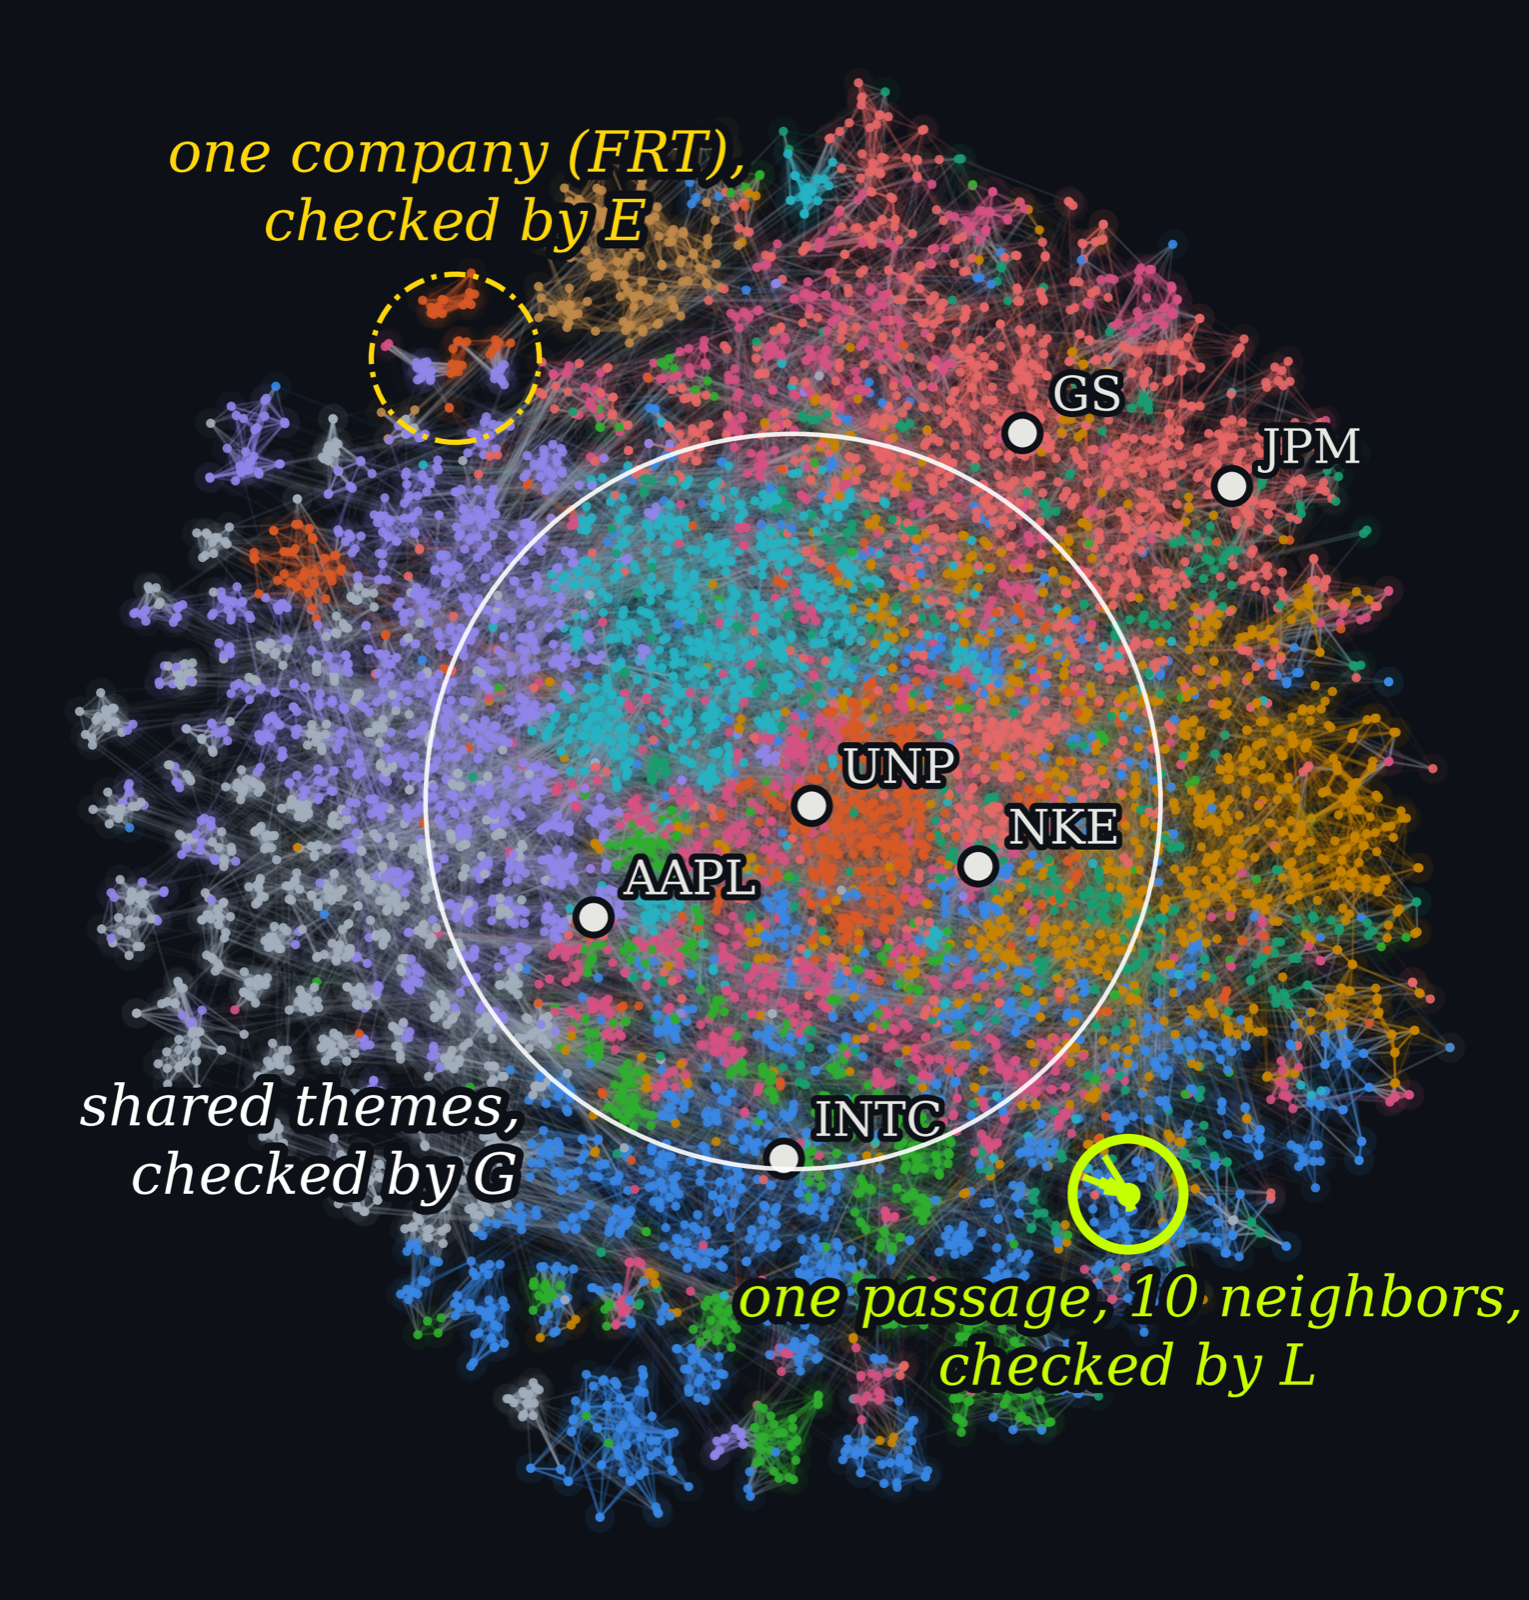
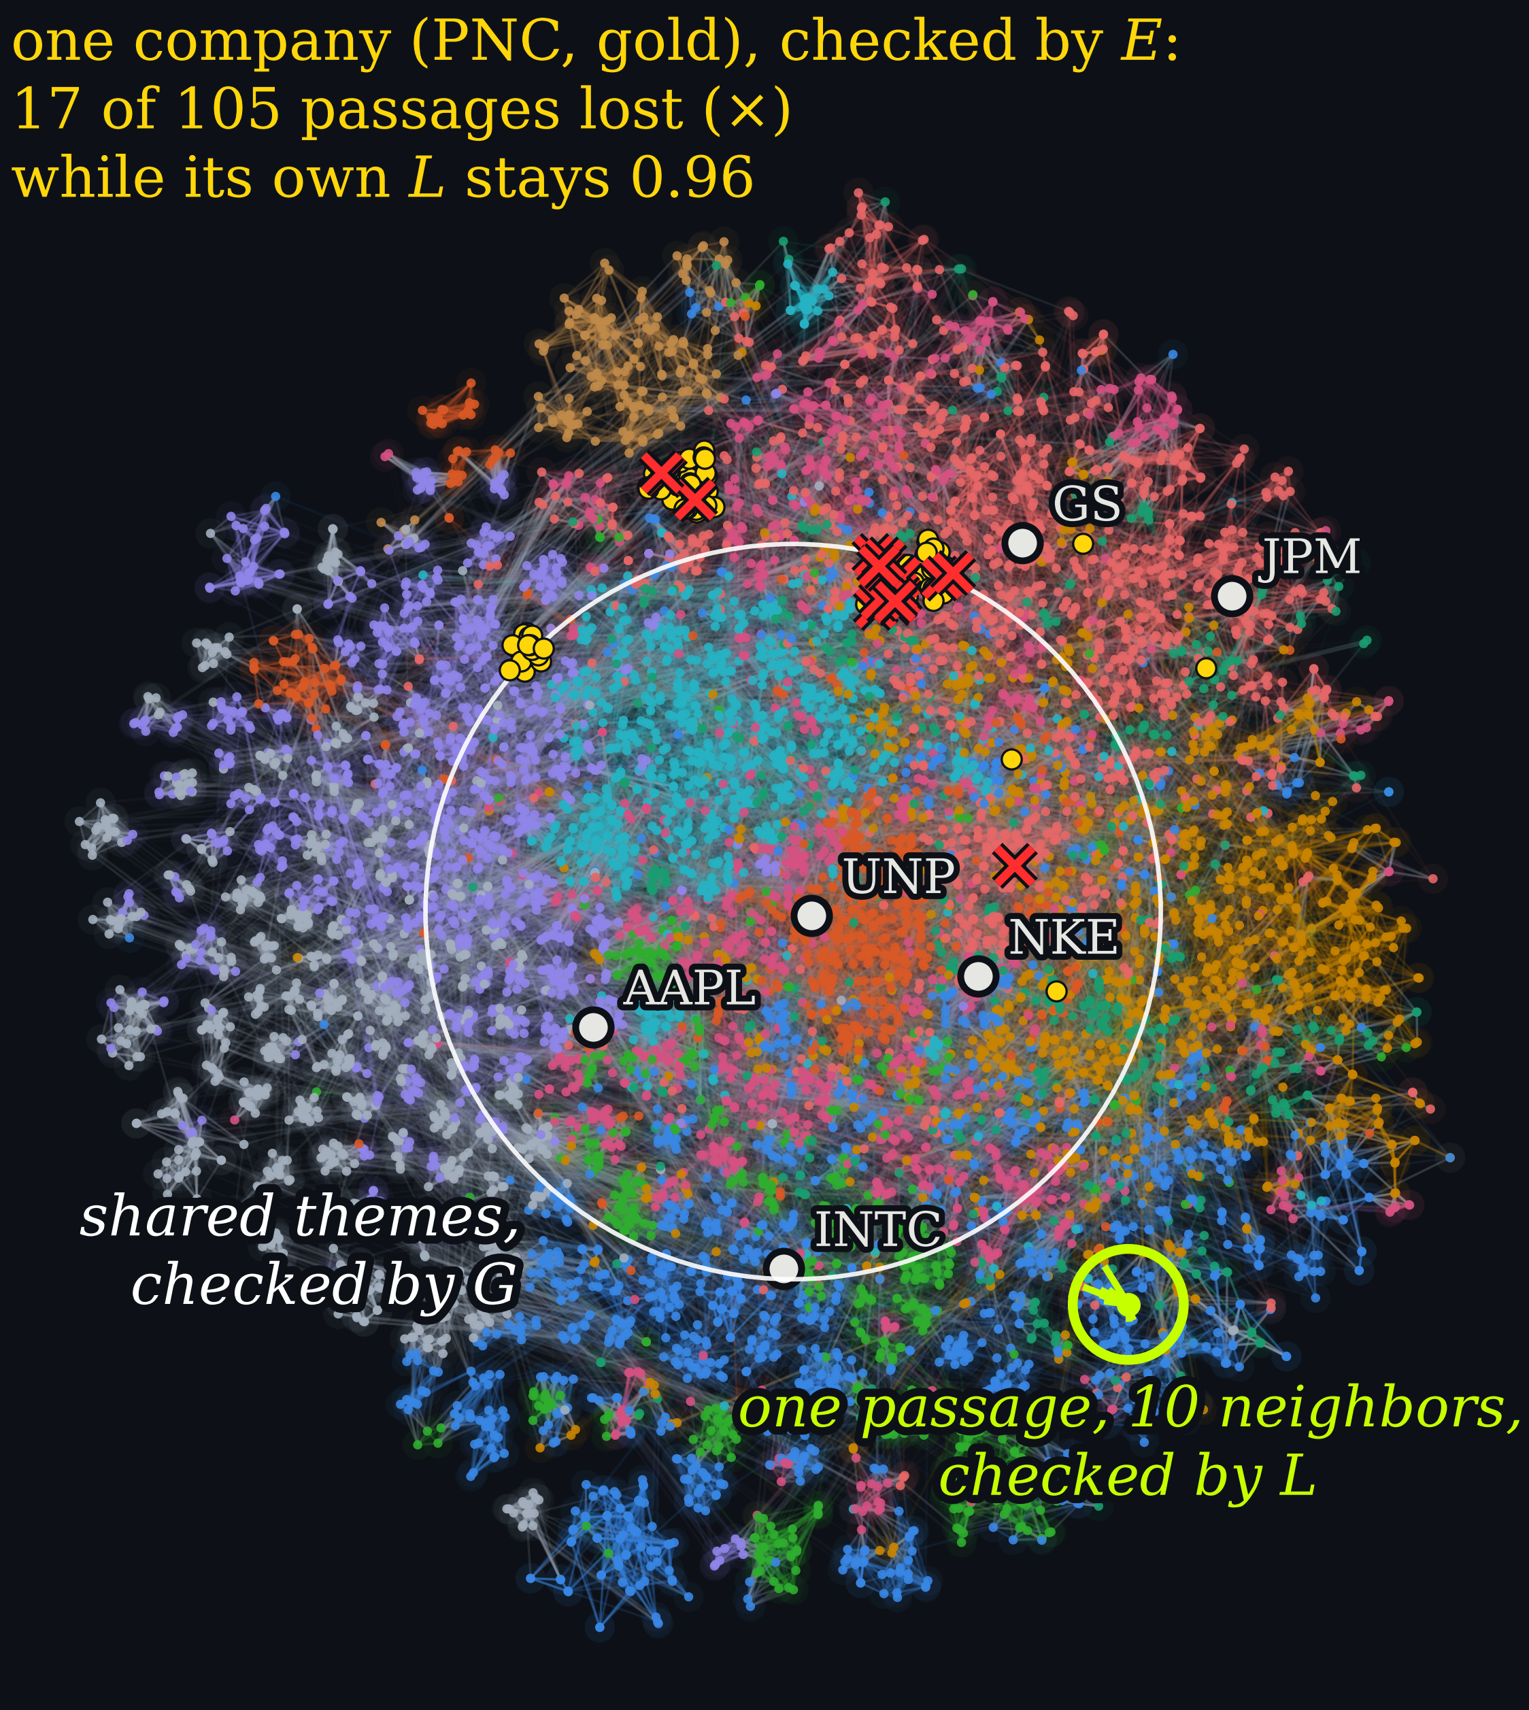
Add files via upload

diff --git a/README_2026-11-01_preFig6.md b/README_2026-11-01_preFig6.md
@@ -1,0 +1,75 @@
+# Preprints for the Amazon Research Award proposal *MemCert*
+
+**MemCert: Label-Free Certification of Compressed Memory for Enterprise Financial AI Agents**
+Henry Han, Data Science and AI Innovation Laboratory, Baylor University · [Henry_Han@baylor.edu](mailto:Henry_Han@baylor.edu)
+
+Three manuscripts under review, version of 2026-11-01. Together they supply the measure, the evidence, the repair method and the memory map on which the proposal builds.
+
+| | Paper | PDF |
+|---|---|---|
+| 1 | H. Han. **Quantifying Local and Global Fidelity of Nonlinear Embeddings.** Manuscript under review, 2026. | [PDF](Han2026_Quantifying_Local_Global_Fidelity_Nonlinear_Embeddings.pdf) |
+| 2 | H. Han. **Enhancing Local and Global Structure in Compressed AI Agent Memory.** Manuscript under review, 2026. | [PDF](Han2026_Enhancing_Local_Global_Structure_Compressed_Agent_Memory.pdf) |
+| 3 | H. Han, L. Niu, D. Li, J. Wang. **Differential Rank Preservation Manifold Learning.** Manuscript under review, 2026. | [PDF](Han2026_Differential_Rank_Preservation_Manifold_Learning.pdf) |
+
+## What each paper does for the proposal
+
+An AI agent stores what it reads as embedding vectors and compresses them at scale. Today a compression is accepted when each item's nearest neighbors survive. Agents also consolidate, delete and compare what they store, and these operations depend on which items lie far apart. MemCert scores both ends of a compressed memory against the uncompressed memory.
+
+| Proposal aim | What the papers already provide |
+|---|---|
+| **Aim 1.** Measure what each compression option keeps | Paper 1 defines the two scores: local fidelity *L* at 10 neighbors and global fidelity *G* over 30 to 50 percent of the data. Both are label-free and come from one chance-corrected curve. *G* agrees with established global scores (0.89 and 0.96 over 156 maps of twelve datasets), and 2,000 points estimate it. |
+| **Aims 1 and 2.** Score each entity | Entity-scale fidelity *E* applies the same chance-corrected overlap with *k* equal to an entity's number of passages. On the codes, before any query, it flags the companies whose passages a compressed index misses (see *Entity-scale fidelity E* below). |
+| **Aim 2.** Test which agent operations each score predicts | Paper 2 shows that retrieval follows *L* (partial rank correlation 0.83 to 0.99 given *G*). With the three retrieval-tuned encoders, consolidation and deletion follow *G* (0.55 to 0.93 given *L*). |
+| **Aim 3.** Certify a memory and repair what the certificate flags | Paper 1 gives the LG reversal test, which decides with a block-jackknife *p*-value whether one map is more local and another more global. Paper 2 gives the repair: locality-aware quantization (LAQ) learns the codebooks of an OPQ index and keeps its bytes, rotation and search. LAQ raises *G* in all 40 held-out runs, Amazon Titan Text Embeddings V2 included. |
+| **Aim 3.** Show a firm its memory | Paper 3 gives SR-tSNE, the map MemCert draws of a memory. It keeps each item's neighbors in their original order, so the items shown next to a passage are the ones a search would return first. |
+
+## Paper 1. Quantifying Local and Global Fidelity of Nonlinear Embeddings
+
+One curve gives both scores. The locality profile is the chance-corrected share of each point's *k* nearest neighbors that a map keeps, over all neighborhood sizes. Its value at *k* = 10 is *L*, and its mean over 30 to 50 percent of the data is *G*. The paper proves that at the midpoint the profile is the agreement on which half of the data is near each point, a rank correlation of the distances. In an agent memory of one million passages, the test finds that two maps cross at 150,000 passages (*p* = 2.6 × 10⁻⁵).
+
+![Locality profile, L and G on MNIST](fig_paper1_LG_profile.png)
+
+**Figure 1 (Fig. 1 of Paper 1).** On 70,000 MNIST digits, t-SNE keeps more of each point's neighbors and PCA keeps more of the global structure; the two cross at 20 percent of the data. (a) A point keeps 6 of its 10 nearest neighbors in the t-SNE map. (b) The raw overlap DLP<sub>*k*</sub> rises to 1 partly by chance (dashed line). (c) After the chance correction, *L* is the value at *k* = 10 (t-SNE 0.38, PCA 0.07) and *G* the mean over the gray band (PCA 0.30, t-SNE 0.20). (d, e) Each point's agreement on its near and far halves tracks the rank correlation of its distances (*r* = 0.94). (f) Seven maps in the (*L*, *G*) plane.
+
+## Paper 2. Enhancing Local and Global Structure in Compressed AI Agent Memory
+
+The paper proves that the loss at every neighborhood size is bounded by the rate of rank violations between near and far items. Keeping near and far pairs in order therefore keeps the far end. LAQ turns this bound into a training objective. On held-out companies and conversations it lifts the lowest theme agreement from 0.80 to 0.89 and has the highest *G* of seven quantizers of the same size in each of 12 runs.
+
+![LAQ on held-out agent memories](fig_paper2_LAQ_heldout.png)
+
+**Figure 2 (Fig. 9 of Paper 2).** LAQ raises the far end of every held-out memory by lowering rank violations, and the gain reaches the operations that depend on the far end. (a) Profiles of OPQ and LAQ with Amazon Titan V2; the gray band is where *G* is measured. (b) The gain grows toward the far end for all four encoders. (c) The bound of Theorem 1 holds at every point. (d) LAQ lowers the rate of rank violations. (e) *G* rises in all 40 held-out runs. (f) Change in agreement for each agent operation; on the right, the number of runs in which LAQ is higher. (g) LAQ (black) and six other quantizers at the same size. (h) The lowest theme agreement rises from 0.80 to 0.89.
+
+### Amazon Titan Text Embeddings V2
+
+![LAQ with Amazon Titan Text Embeddings V2](fig_paper2_titan_v2.png)
+
+**Figure 3 (Tables 2 and 3 of Paper 2).** With Amazon Titan Text Embeddings V2, LAQ keeps the highest global fidelity of seven quantizers of the same size. Held-out annual reports of Multi-Doc-2025 at 128 bytes per passage. (a) *G* and *L* of each quantizer, means over three splits; RaBitQ uses 136 bytes, and ScaNN reports *L* only. (b) From its OPQ start, LAQ raises *G* from 0.656 to 0.692 and *L* from 0.790 to 0.798, in each of four splits.
+
+**At a million passages (result after the manuscript).** On one million MS MARCO passages at 96 bytes, with LAQ trained on 100,000 other passages, *G* rises from 0.774 (OPQ) to 0.784 to 0.785 in all three seeds, with *L* and recall@10 within 0.002 of OPQ.
+
+## Entity-scale fidelity *E* (result after the manuscripts)
+
+Between *L* (10 neighbors) and *G* (30 to 50 percent of the data) lies the scale of one entity. *E* scores each company on the compressed codes: for each of its passages, the chance-corrected share of the passage's *k* nearest neighbors that the codes keep, with *k* equal to the company's number of passages.
+
+We retrieved each of 106 S&P 500 companies in FinQA (BGE-base, 8,356 passages, 96 code bytes per passage) with the centroid of its passages, in a FAISS simulation of OpenSearch's on-disk default: max(2*k*, 100) candidates (oversampling 2.0 with OpenSearch's 100-candidate minimum), reranked at full precision. Rescored binary codes miss some of a company's own passages that full-precision search returns for 65 of 106 companies (223 passages), PCA+int8 for 6 and OPQ for 1. Across companies, *E* predicts the share of full-precision results missed better than *L* (Spearman −0.73 vs. −0.44). Given *L*, *E* keeps a partial rank correlation of −0.66 (95% bootstrap CI −0.76 to −0.52); given *E*, *L* adds −0.06.
+
+![E predicts which companies rescoring misses](fig_entity_E_barrier.png)
+
+**Figure 5.** Companies with low *E* lose a larger share of their full-precision results under rescoring. Each mark is one company and one compression at 96 code bytes per passage (FinQA, BGE-base).
+
+## Paper 3. Differential Rank Preservation Manifold Learning
+
+t-SNE and UMAP keep each point's neighbors but not their order. SR-tSNE adds a differentiable rank term to the t-SNE loss, so a point's true neighbors outrank intruders and keep their original order. Ordinal DLP (O-DLP) credits a neighbor only when it returns at its own rank. Across eight benchmarks of image, text, speech, remote-sensing and single-cell data, SR-tSNE outperforms 12 baselines in rank preservation and neighborhood overlap, gives the best label transfer on seven vision datasets, and ranks first in 17 of 18 single-cell dataset and metric combinations.
+
+![SR-tSNE retrieval](fig_paper3_srtsne_retrieval.png)
+
+**Figure 4 (Fig. 6 of Paper 3).** SR-tSNE returns each query's nearest neighbors at their own rank, where other methods introduce ordinal and class errors. Top three embedded neighbors of queries from (a) MNIST, (b) CIFAR-10 and (c) Fashion-MNIST. Badges give the neighbor's rank in the original space within the query's top 30; frames show the rank displacement (dark green: exact; pale green: off by one; orange: off by two or more; red: outside the top 30). Class labels turn red on a class mismatch.
+
+
+![SR-tSNE map of a compressed-memory audit](fig_memcert_srtsne_map.png)
+
+**Figure 6 (Figure 1 of the proposal).** The memory map MemCert draws with SR-tSNE: 8,356 FinQA passages of 106 S&P 500 companies in 11 theme colors. A recall check sees one passage's 10 nearest neighbors (*L*, green) but misses a whole company (*E*, gold) and themes shared across companies (*G*, white).
+
+## Contact
+
+Henry Han, Baylor University · [Henry_Han@baylor.edu](mailto:Henry_Han@baylor.edu)

diff --git a/README.md b/README.md
@@ -68,7 +68,7 @@ t-SNE and UMAP keep each point's neighbors but not their order. SR-tSNE adds a d
 
 ![SR-tSNE map of a compressed-memory audit](fig_memcert_srtsne_map.png)
 
-**Figure 6 (Figure 1 of the proposal).** The memory map MemCert draws with SR-tSNE: 8,356 FinQA passages of 106 S&P 500 companies in 11 theme colors. A recall check sees one passage's 10 nearest neighbors (*L*, green) but misses a whole company (*E*, gold) and themes shared across companies (*G*, white).
+**Figure 6 (Figure 1 of the proposal).** The memory map MemCert draws with SR-tSNE: 8,356 FinQA passages of 106 S&P 500 companies in 11 theme colors. A recall check sees one passage's 10 nearest neighbors (*L*) but misses a whole company (*E*) and themes shared across companies (*G*). Under rescored binary codes, PNC (gold) keeps *L* = 0.96 yet loses 17 of its 105 passages (red ×).
 
 ## Contact
 
